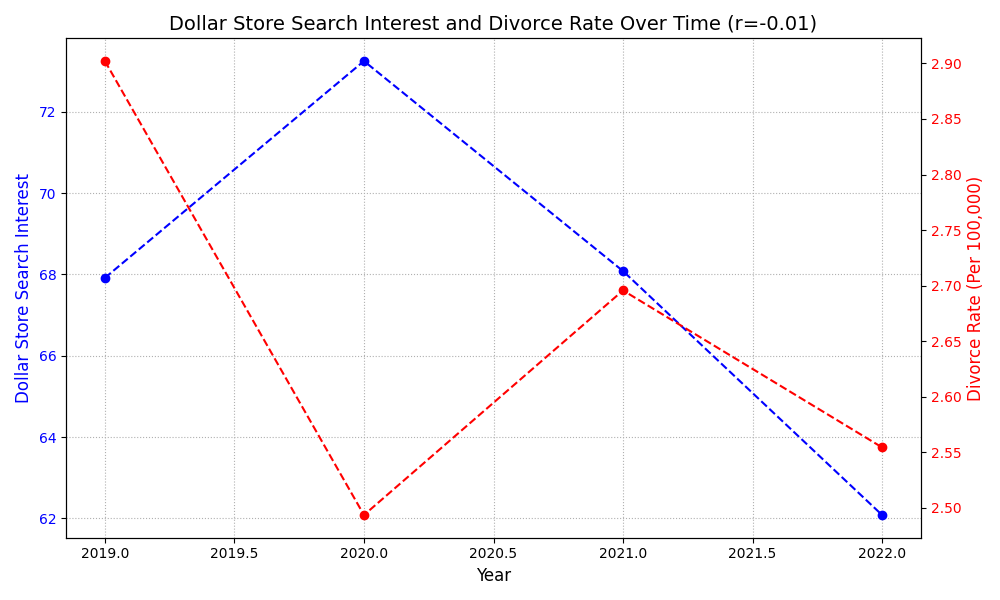
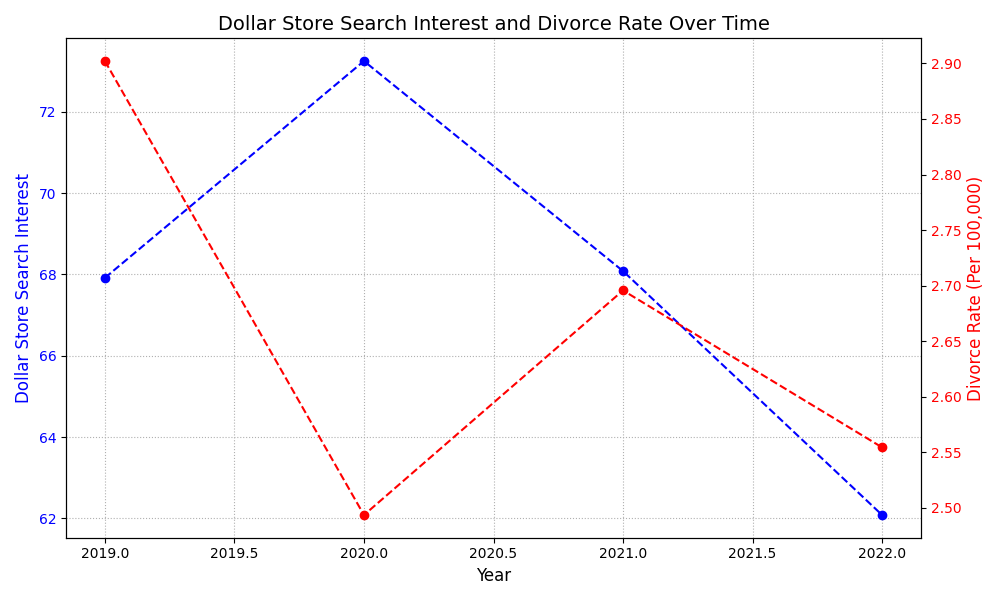
Finalized Project Files

Changed region(s): [[0.155, 0.03, 0.806, 0.06]]

diff --git a/unemployment_rate_vs_state_crime.py b/unemployment_rate_vs_state_crime.py
@@ -15,9 +15,10 @@ df_2 = pd.read_csv(path2).rename(columns={'Data.Rates.Violent.All': 'Violent_Cri
 # # Aggregate unemployment data by State/Area
 
 unempl_agg = df.groupby('State')['Unemployment_percentage_per_state'].mean().reset_index()
+crime_agg = df_2.groupby('State')['Violent_Crimes'].mean().reset_index()
 
 # # Merge datasets
-merged_df = pd.merge(df_2[['State', 'Violent_Crimes']], unempl_agg, on='State', how='inner')
+merged_df = pd.merge(crime_agg, unempl_agg, on='State', how='inner')
 final_df = merged_df.dropna().reset_index(drop=True)
 
 print(final_df)
@@ -32,28 +33,40 @@ print(correlation_matrix)
 plt.figure(figsize=(8, 6))
 sns.heatmap(correlation_matrix, annot=True, cmap='coolwarm', fmt=".2f")
 plt.title("Unemployment Rate vs Violent Crime Rate")
-# plt.savefig('Obesity_vs_Unemployment_Heatmap.png')
+filePath = './Analysis_results/'
+plt.savefig(filePath + 'Crime_vs_Unemployment_Heatmap.png')
 plt.show()
 
 
 # Plot scatter plot
-sample_df = final_df.sample(frac=0.10, random_state=42)
-sample_df.plot.scatter(
-    x='Unemployment_percentage_per_state', 
-    y='Violent_Crimes', 
-    color='blue'
+plt.figure(figsize=(12, 8))  # Set the width to 12 inches and height to 8 inches
+
+# Scatterplot
+sns.scatterplot(
+    x='Unemployment_percentage_per_state',
+    y='Violent_Crimes',
+    data=final_df,
+    color='blue',
+    s=60,  # Adjusted marker size for better visibility on larger plot
+    edgecolor='black',  # Add edge color to markers for better definition
+    alpha=0.7  # Transparency for markers
 )
+
+# Regression line
 sns.regplot(
     x='Unemployment_percentage_per_state',
     y='Violent_Crimes',
     data=final_df,
-    scatter_kws={"color": "blue"},
-    line_kws={"color": "red"}
+    scatter=False,  # Hide default scatter to avoid overlap
+    line_kws={"color": "red", "linewidth": 2},  # Adjusted line width
 )
-plt.title('Relationship between Unemployment Rate and Crimes Committed per US State')
-plt.xlabel('Unemployment Rate(%)')
-plt.ylabel('# Of Crimes Commited')
-plt.savefig('Crime_vs_Unemployment_Scatterplot.png')
+
+# Add title and labels
+plt.title('Relationship Between Unemployment Rate and Violent Crimes', fontsize=16, fontweight='bold')
+plt.xlabel('Unemployment Rate (%)', fontsize=14)
+plt.ylabel('No. of Violent Crimes (Per 100,000 individuals)', fontsize=14)
+
+# Save and display the plot
+filePath = './Analysis_results/'
+plt.savefig(filePath + 'Crime_vs_Unemployment_Scatterplot.png')
 plt.show()
-
-

diff --git a/avocado_price_vs_yearly_temperature.py b/avocado_price_vs_yearly_temperature.py
@@ -40,7 +40,7 @@ print(correlation_matrix)
 sns.heatmap(correlation_matrix, annot=True, cmap='coolwarm', fmt=".2f")
 plt.title("Florida Temperature vs Avocado Prices")
 filePath = './Analysis_results/'
-plt.savefig(filePath + 'Avocado_Sales_vs_Florida_Temperature_Heatmap.png')
+plt.savefig(filePath + 'Avocado_Prices_vs_Florida_Temperature_Heatmap.png')
 plt.show()
 
 # Plotting the Line Graph for Florida Temperature vs Avocado Prices
@@ -65,5 +65,5 @@ ax2.legend(loc='upper right')
 
 # Save and show the plot
 filePath = './Analysis_results/'
-plt.savefig(filePath + 'Florida_Temperature_vs_Avocado_Prices_LineGraph.png')
+plt.savefig(filePath + 'Avocado_Prices_vs_Florida_Temp_LineGraph.png')
 plt.show()

diff --git a/suicide_vs_avg_monthly_temp.py b/suicide_vs_avg_monthly_temp.py
@@ -56,7 +56,7 @@ ax2.set_ylabel('Suicide Rate (Per 100,000)', fontsize=12, color='red')
 ax2.tick_params(axis='y', labelcolor='red')
 
 # Add a title and grid
-plt.title('Correlation Between Suicide Rates and Average Yearly Temperature (r=-0.39)', fontsize=14)
+plt.title('Correlation Between Suicide Rates and Average Yearly Temperature', fontsize=14)
 ax1.grid(True, linestyle=':')
 
 # Show the plot

diff --git a/divorce_rate_vs_dollar_store_search.py b/divorce_rate_vs_dollar_store_search.py
@@ -57,7 +57,7 @@ ax2.set_ylabel('Divorce Rate (Per 100,000)', fontsize=12, color='red')
 ax2.tick_params(axis='y', labelcolor='red')
 
 # Add a title and grid
-plt.title('Dollar Store Search Interest and Divorce Rate Over Time (r=-0.01)', fontsize=14)
+plt.title('Dollar Store Search Interest and Divorce Rate Over Time', fontsize=14)
 ax1.grid(True, linestyle=':')
 
 # Show the plot

diff --git a/unemployment_rate_vs_obesity_rates.py b/unemployment_rate_vs_obesity_rates.py
@@ -49,7 +49,7 @@ sns.regplot(
     line_kws={"color": "red"}
 )
 plt.title('Relationship between Unemployment Rate and Obesity per US State')
-plt.xlabel('Obesity')
+plt.xlabel('Obesity Percentage Per State')
 plt.ylabel('Unemployment Percentage Per State')
 
 filePath = './Analysis_results/'
